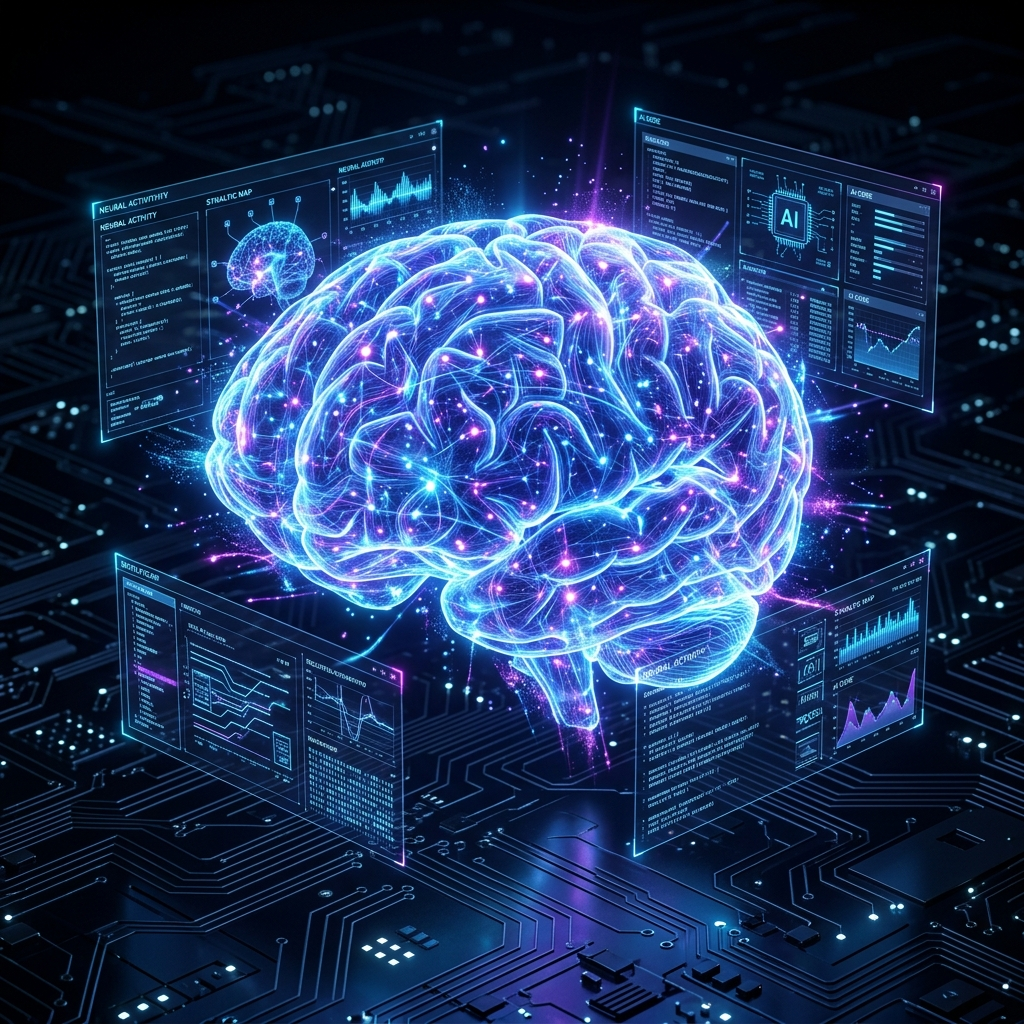
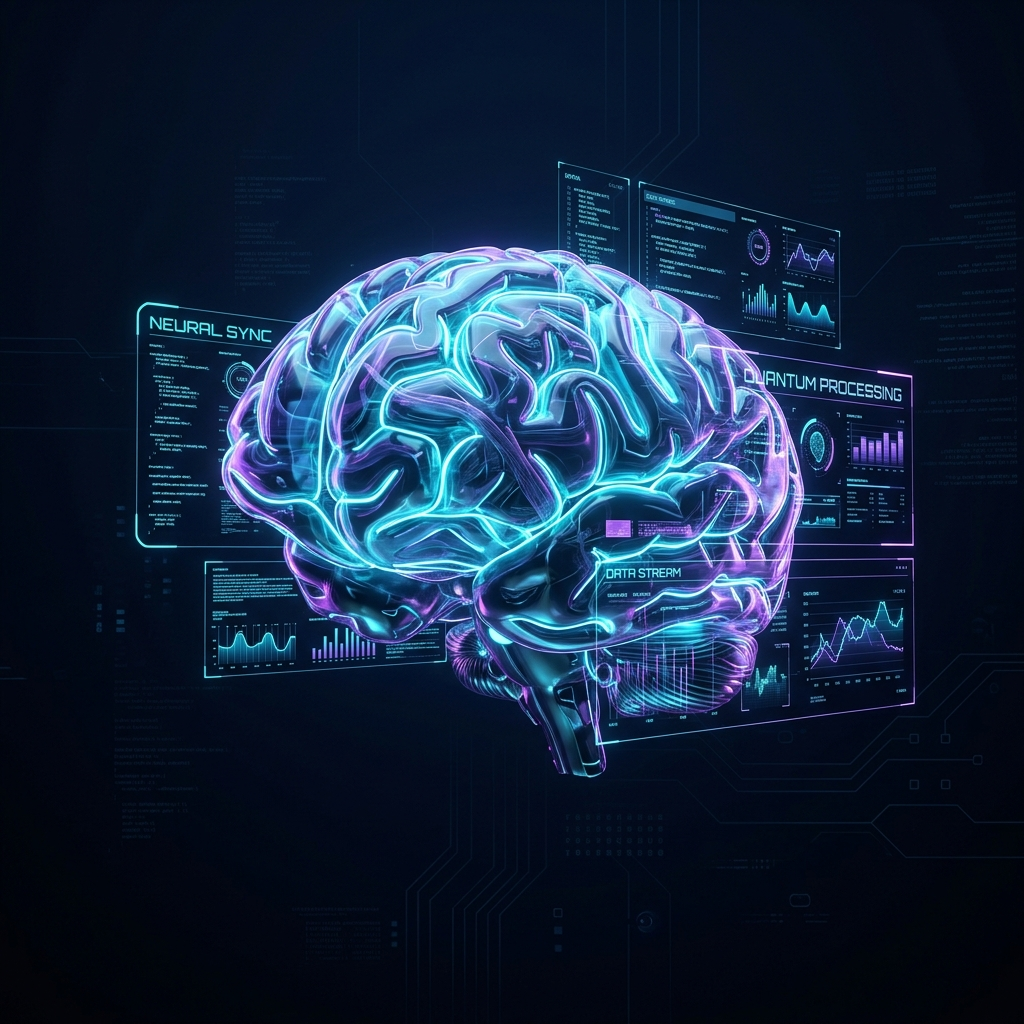
Hero: better holographic brain image, blend mode, neon button glow, buttons visible

diff --git a/style.css b/style.css
@@ -107,10 +107,26 @@ h1, h2, h3, h4, .logo-text { font-family: 'Outfit', sans-serif; }
     transition: all 0.3s cubic-bezier(0.4, 0, 0.2, 1); cursor: pointer; border: none;
     font-family: 'Inter', sans-serif;
 }
-.btn-primary { background: linear-gradient(45deg, var(--primary), #3a0ca3); color: white; box-shadow: 0 4px 15px var(--primary-glow); }
-.btn-primary:hover { transform: translateY(-3px); box-shadow: 0 8px 25px var(--primary-glow); }
-.btn-secondary { background: rgba(255, 255, 255, 0.05); color: white; border: 1px solid var(--border-color); backdrop-filter: blur(5px); }
-.btn-secondary:hover { background: rgba(255, 255, 255, 0.1); transform: translateY(-3px); border-color: rgba(255,255,255,0.2); }
+.btn-primary {
+    background: linear-gradient(135deg, #4361ee, #3a0ca3);
+    color: white;
+    box-shadow: 0 0 18px rgba(76,201,240,0.5), 0 4px 15px rgba(67,97,238,0.4);
+    border: 1px solid rgba(76,201,240,0.3);
+}
+.btn-primary:hover {
+    transform: translateY(-3px);
+    box-shadow: 0 0 30px rgba(76,201,240,0.7), 0 8px 25px rgba(67,97,238,0.5);
+}
+.btn-secondary {
+    background: transparent; color: white;
+    border: 1.5px solid rgba(255,255,255,0.35);
+    backdrop-filter: blur(5px);
+}
+.btn-secondary:hover {
+    background: rgba(255,255,255,0.08);
+    transform: translateY(-3px);
+    border-color: rgba(255,255,255,0.6);
+}
 .btn-outline { border: 1px solid var(--primary); color: var(--primary) !important; background: transparent; }
 .btn-outline:hover { background: var(--primary); color: white !important; box-shadow: 0 4px 15px var(--primary-glow); }
 .glow-btn { position: relative; overflow: hidden; }
@@ -120,7 +136,7 @@ h1, h2, h3, h4, .logo-text { font-family: 'Outfit', sans-serif; }
 .hero {
     position: relative; min-height: 100vh;
     display: flex; align-items: center;
-    padding-top: 80px; overflow: hidden;
+    padding-top: 90px; padding-bottom: 2rem; overflow: hidden;
 }
 .hero-container {
     display: grid;
@@ -171,13 +187,15 @@ h1, h2, h3, h4, .logo-text { font-family: 'Outfit', sans-serif; }
 }
 .hero-img {
     width: 100%; max-width: 560px;
-    filter: drop-shadow(0 0 40px rgba(67,97,238,0.5)) drop-shadow(0 0 80px rgba(114,9,183,0.3));
+    mix-blend-mode: lighten;
+    filter: drop-shadow(0 0 30px rgba(67,97,238,0.6)) drop-shadow(0 0 70px rgba(114,9,183,0.4)) brightness(1.1);
     animation: float 4s ease-in-out infinite;
+    border-radius: 8px;
 }
 .hero-img-glow {
-    position: absolute; width: 400px; height: 400px; border-radius: 50%;
-    background: radial-gradient(circle, rgba(67,97,238,0.25) 0%, transparent 70%);
-    filter: blur(40px); z-index: -1;
+    position: absolute; width: 450px; height: 450px; border-radius: 50%;
+    background: radial-gradient(circle, rgba(67,97,238,0.3) 0%, transparent 70%);
+    filter: blur(50px); z-index: -1;
 }
 
 /* Responsive Hero */